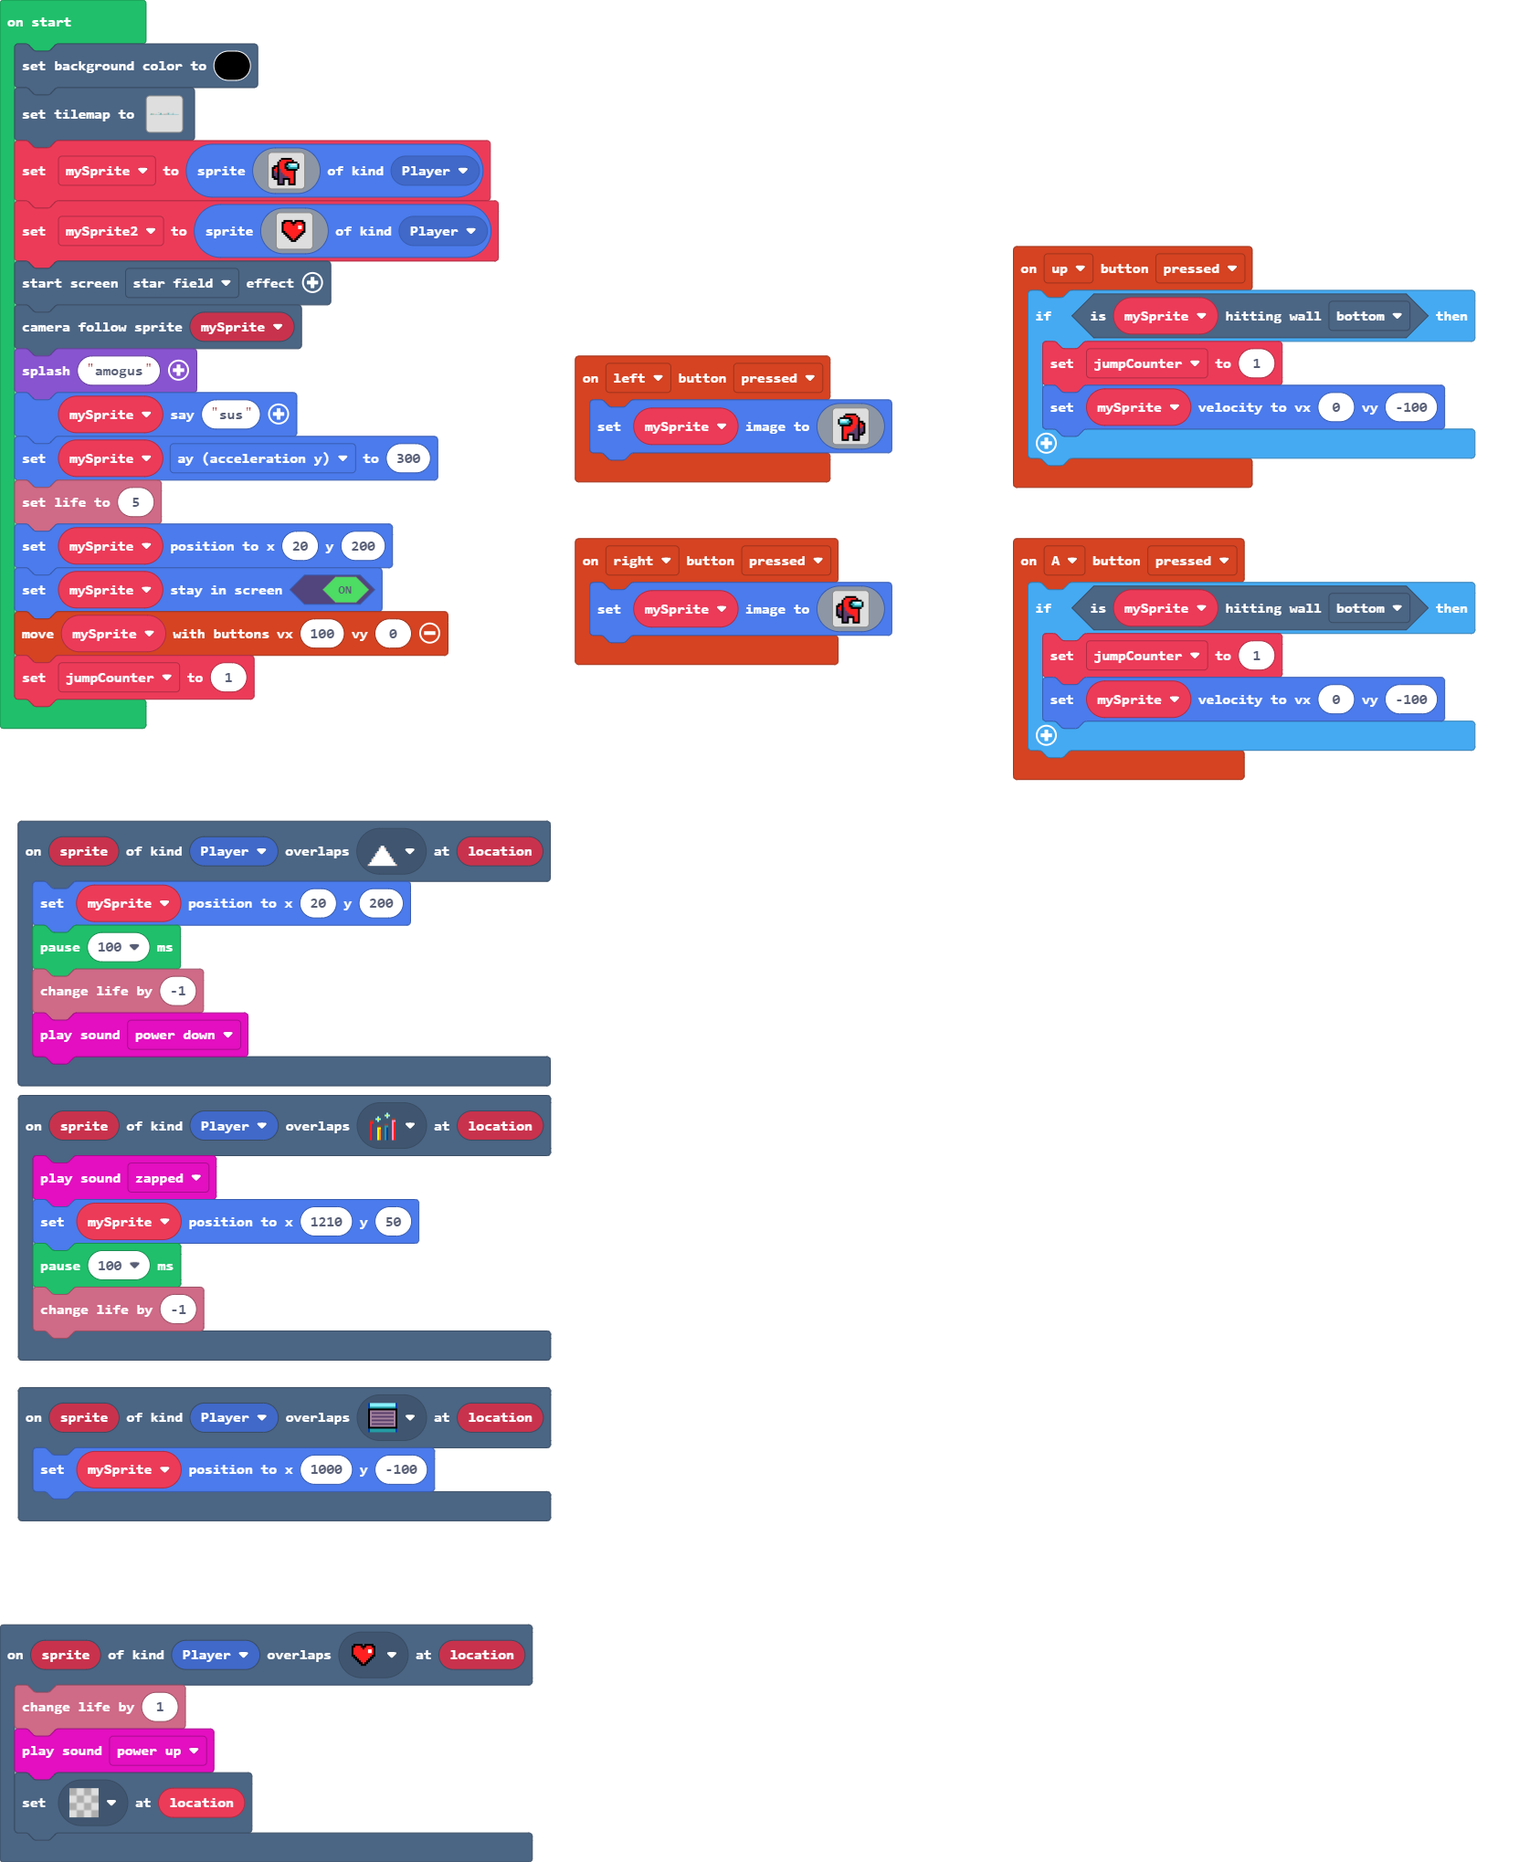
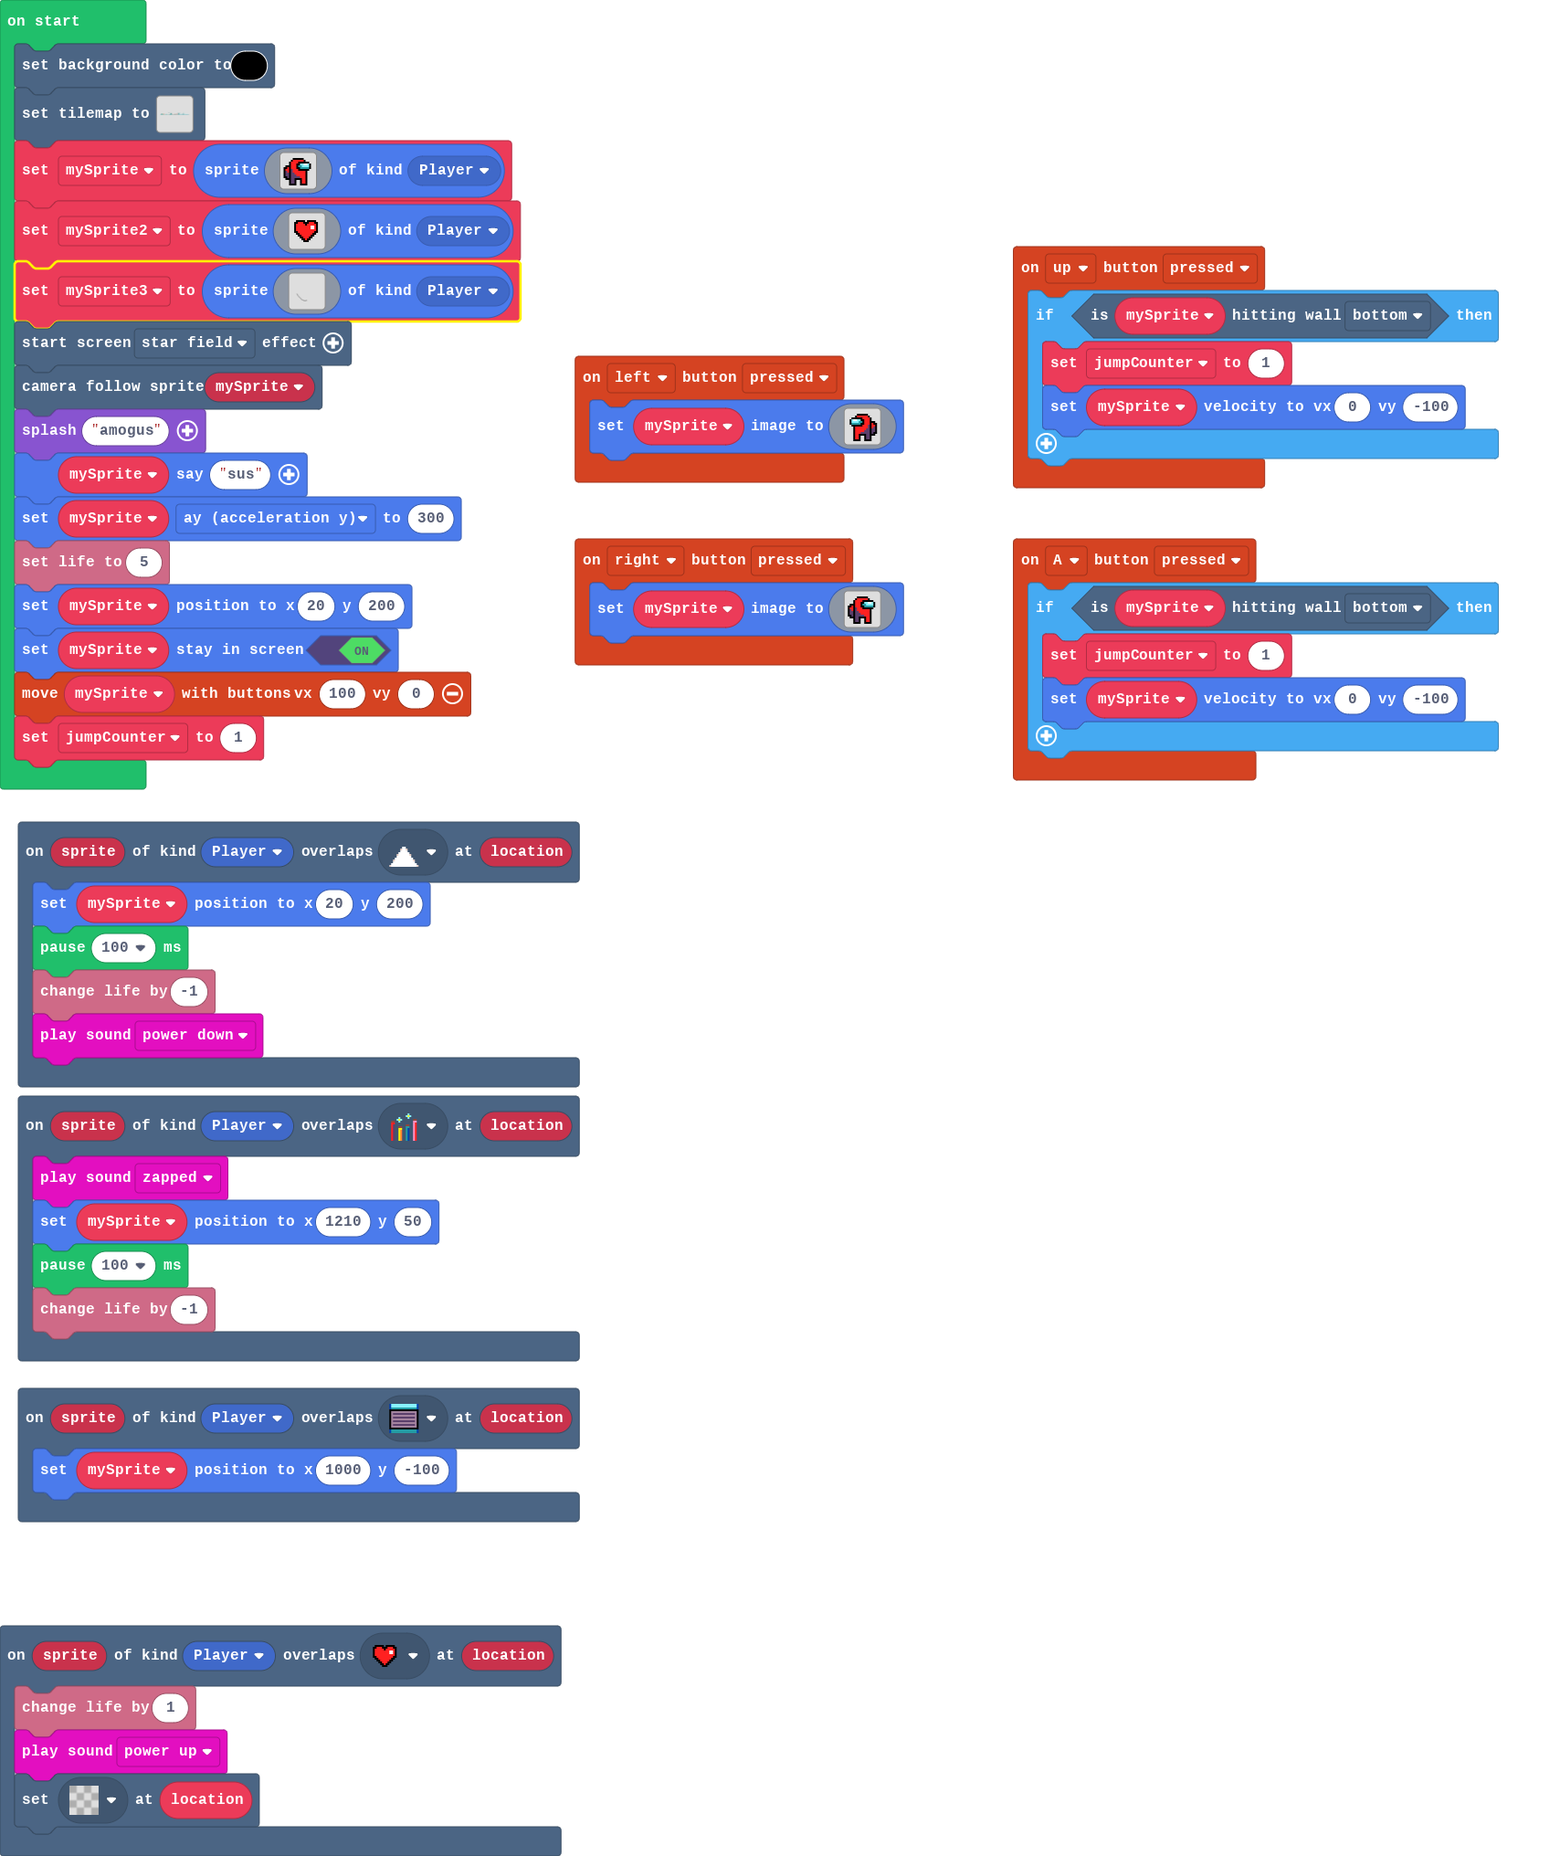
Update main.blocks, main.ts, images.g.jres, images.g.ts

diff --git a/images.g.ts b/images.g.ts
@@ -244,6 +244,137 @@ dddddddddddddddddddddddddddddddddddddddddddddddddddddddddddddddddddddddddddddddd
 . . . . . . . . . . . . . . . . 
 . . . . . . . . . . . . . . . . 
 `;
+            case "6kPB=Mp6A!O02##r`!?)":
+            case "imposter":return img`
+................................................................................................................................
+................................................................................................................................
+................................................................................................................................
+................................................................................................................................
+................................................................................................................................
+................................................................................................................................
+................................................................................................................................
+................................................................................................................................
+................................................................................................................................
+................................................................................................................................
+................................................................................................................................
+................................................................................................................................
+................................................................................................................................
+................................................................................................................................
+................................................................................................................................
+................................................................................................................................
+................................................................................................................................
+................................................................................................................................
+................................................................................................................................
+................................................................................................................................
+................................................................................................................................
+................................................................................................................................
+................................................................................................................................
+................................................................................................................................
+................................................................................................................................
+................................................................................................................................
+................................................................................................................................
+................................................................................................................................
+................................................................................................................................
+................................................................................................................................
+................................................................................................................................
+................................................................................................................................
+................................................................................................................................
+................................................................................................................................
+................................................................................................................................
+................................................................................................................................
+................................................................................................................................
+................................................................................................................................
+................................................................................................................................
+................................................................................................................................
+................................................................................................................................
+................................................................................................................................
+................................................................................................................................
+................................................................................................................................
+................................................................................................................................
+................................................................................................................................
+................................................................................................................................
+................................................................................................................................
+................................................................................................................................
+................................................................................................................................
+................................................................................................................................
+................................................................................................................................
+................................................................................................................................
+................................................................................................................................
+................................................................................................................................
+................................................................................................................................
+................................................................................................................................
+................................................................................................................................
+................................................................................................................................
+................................................................................................................................
+................................................................................................................................
+................................................................................................................................
+................................................................................................................................
+................................................................................................................................
+................................................................................................................................
+................................................................................................................................
+................................................................................................................................
+................................................................................................................................
+................................................................................................................................
+................................................................................................................................
+................................................................................................................................
+................................................................................................................................
+................................................................................................................................
+................................................................................................................................
+...................f............................................................................................................
+....................f...........................................................................................................
+.....................f..........................................................................................................
+......................f.........................................................................................................
+......................f.........................................................................................................
+......................f.........................................................................................................
+.......................f........................................................................................................
+.......................f........................................................................................................
+........................f.......................................................................................................
+.........................f......................................................................................................
+..........................f.....................................................................................................
+...........................f....................................................................................................
+............................f...................................................................................................
+............................f...................................................................................................
+.............................f..................................................................................................
+..............................ff................................................................................................
+................................f...............................................................................................
+.................................f..............................................................................................
+..................................f.............................................................................................
+..................................f.............................................................................................
+...................................ff...........................................................................................
+.....................................f..........................................................................................
+......................................f.........................................................................................
+......................................f.........................................................................................
+.......................................f........................................................................................
+........................................f.......................................................................................
+.........................................ff.....................................................................................
+...........................................fff..................................................................................
+..............................................ff................................................................................
+................................................ff...........fff................................................................
+..................................................fff.....fff...................................................................
+.....................................................fffff......................................................................
+................................................................................................................................
+................................................................................................................................
+................................................................................................................................
+................................................................................................................................
+................................................................................................................................
+................................................................................................................................
+................................................................................................................................
+................................................................................................................................
+................................................................................................................................
+................................................................................................................................
+................................................................................................................................
+................................................................................................................................
+................................................................................................................................
+................................................................................................................................
+................................................................................................................................
+................................................................................................................................
+................................................................................................................................
+................................................................................................................................
+................................................................................................................................
+................................................................................................................................
+................................................................................................................................
+................................................................................................................................
+`;
         }
         return null;
     })

diff --git a/main.ts b/main.ts
@@ -76,6 +76,7 @@ scene.setBackgroundColor(15)
 tiles.setTilemap(tilemap`level1`)
 mySprite = sprites.create(assets.image`amou`, SpriteKind.Player)
 let mySprite2 = sprites.create(assets.tile`health`, SpriteKind.Player)
+let mySprite3 = sprites.create(assets.image`imposter`, SpriteKind.Player)
 effects.starField.startScreenEffect()
 scene.cameraFollowSprite(mySprite)
 game.splash("amogus")
